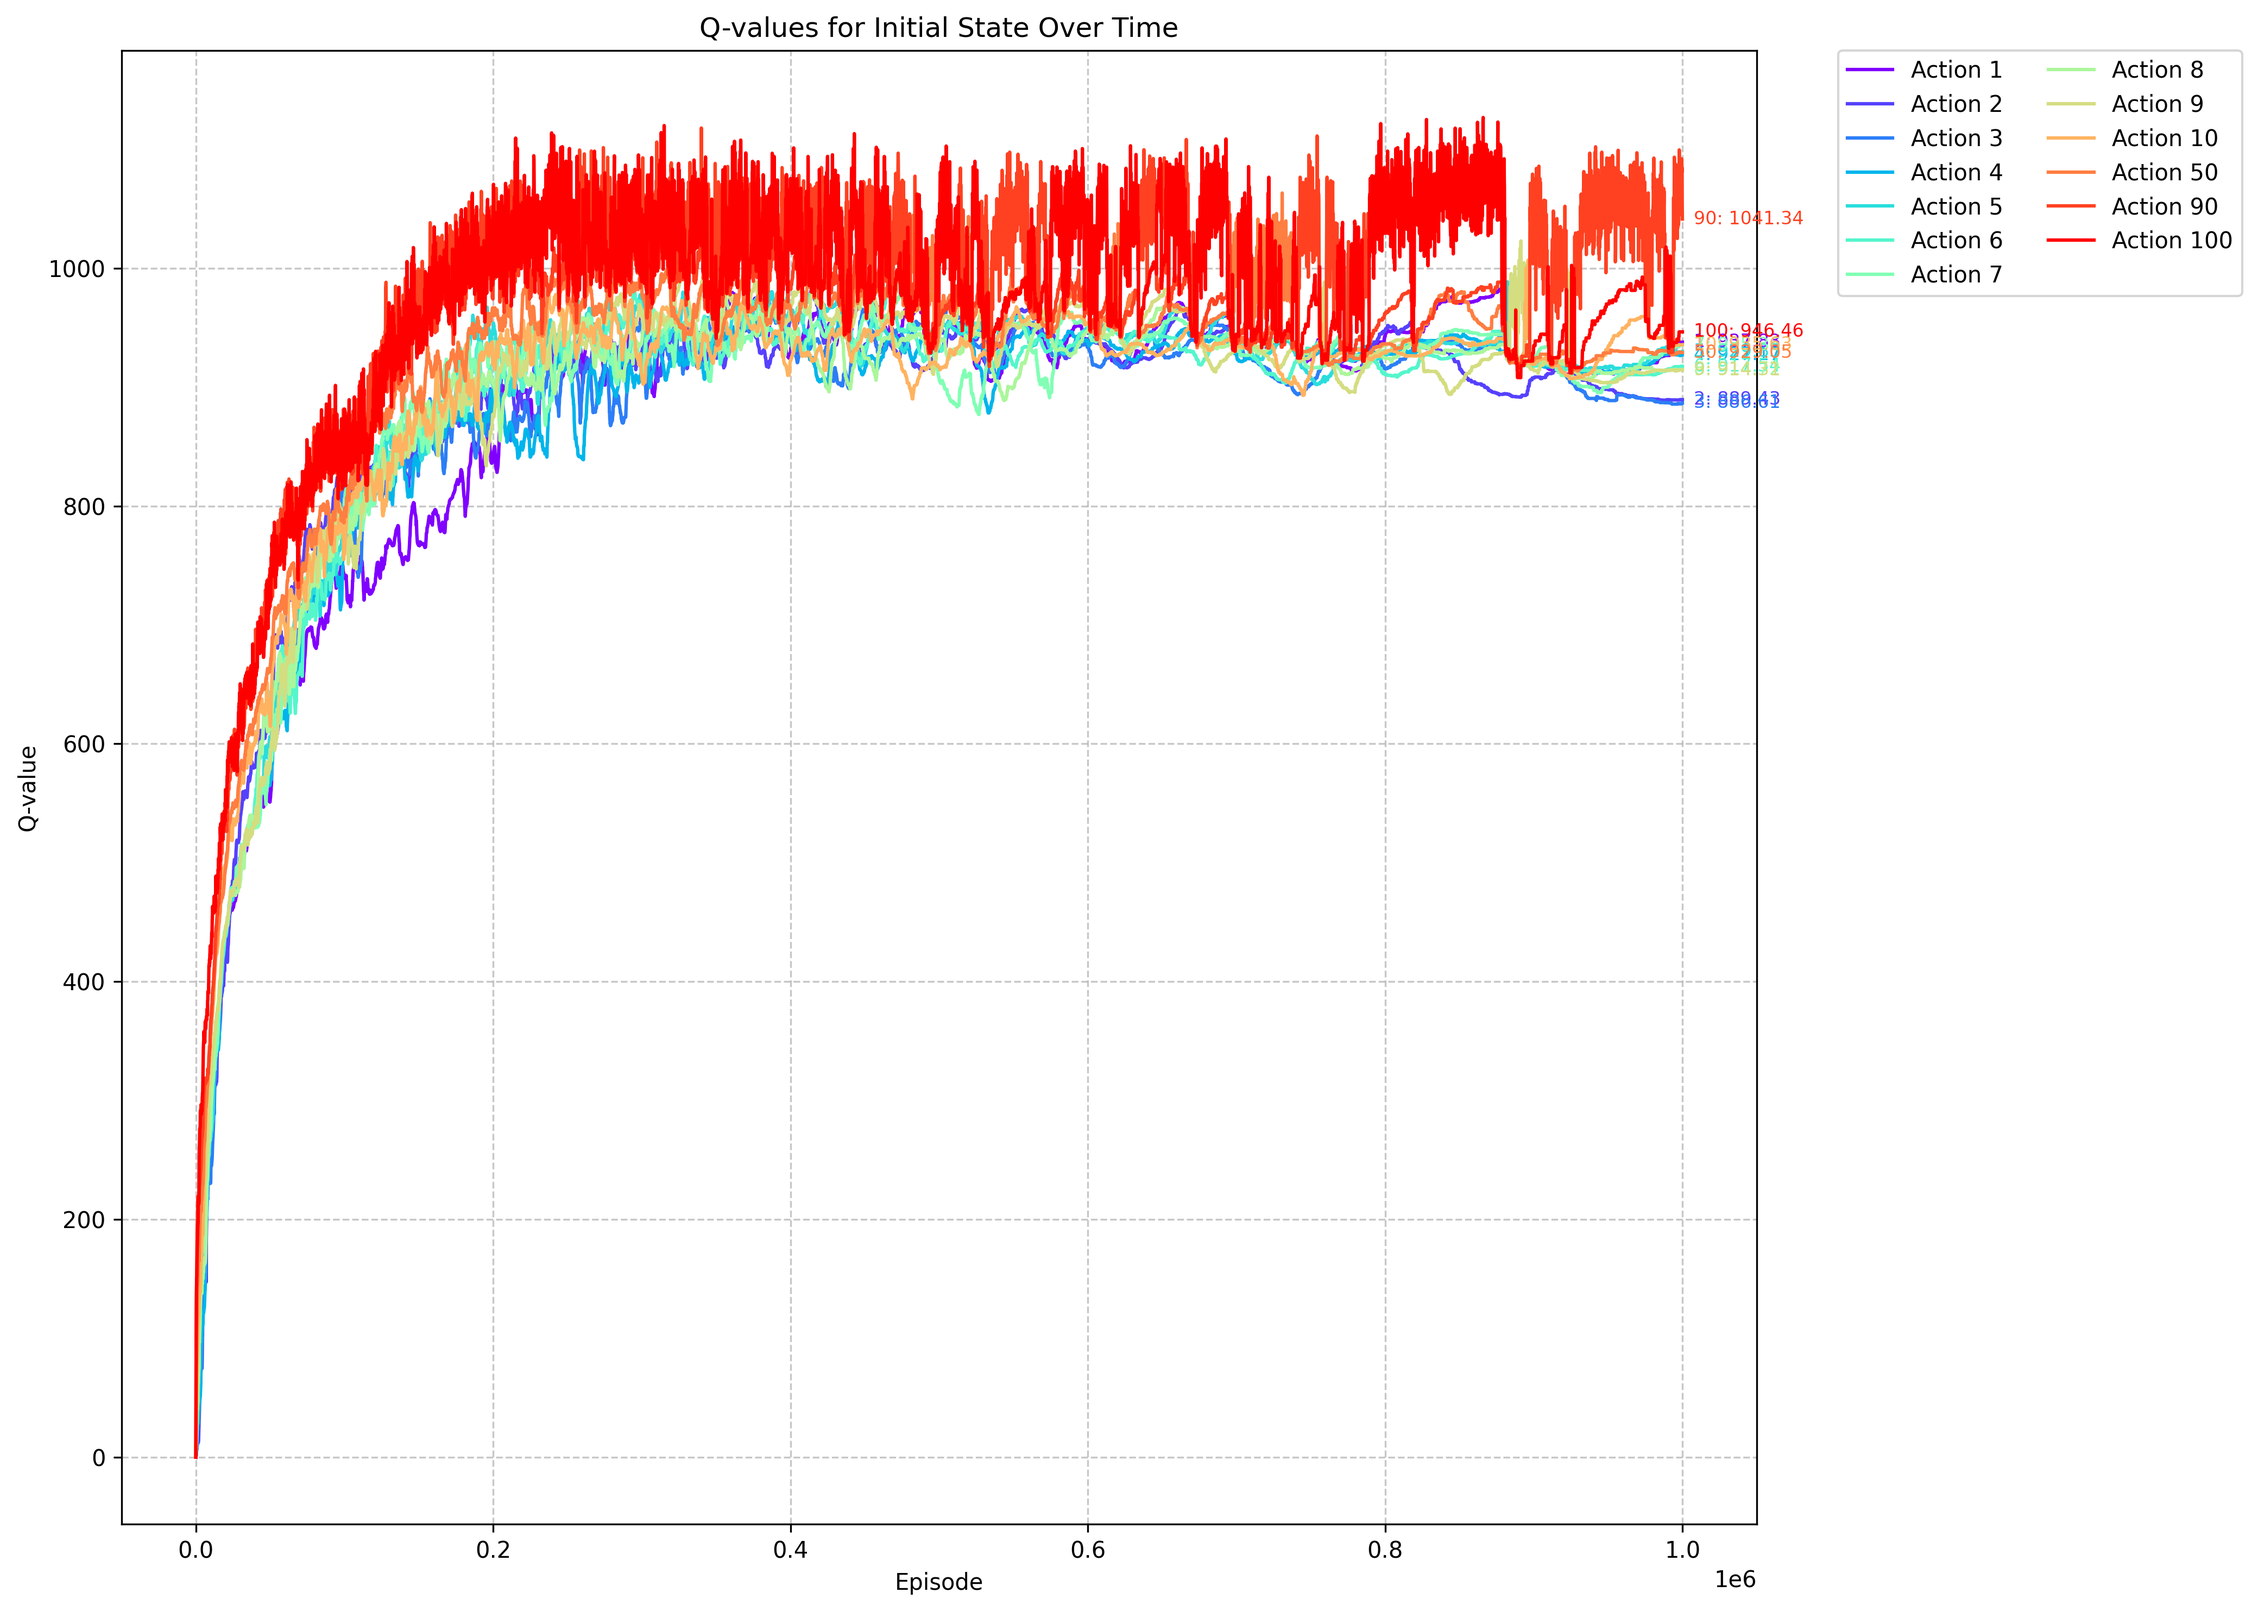
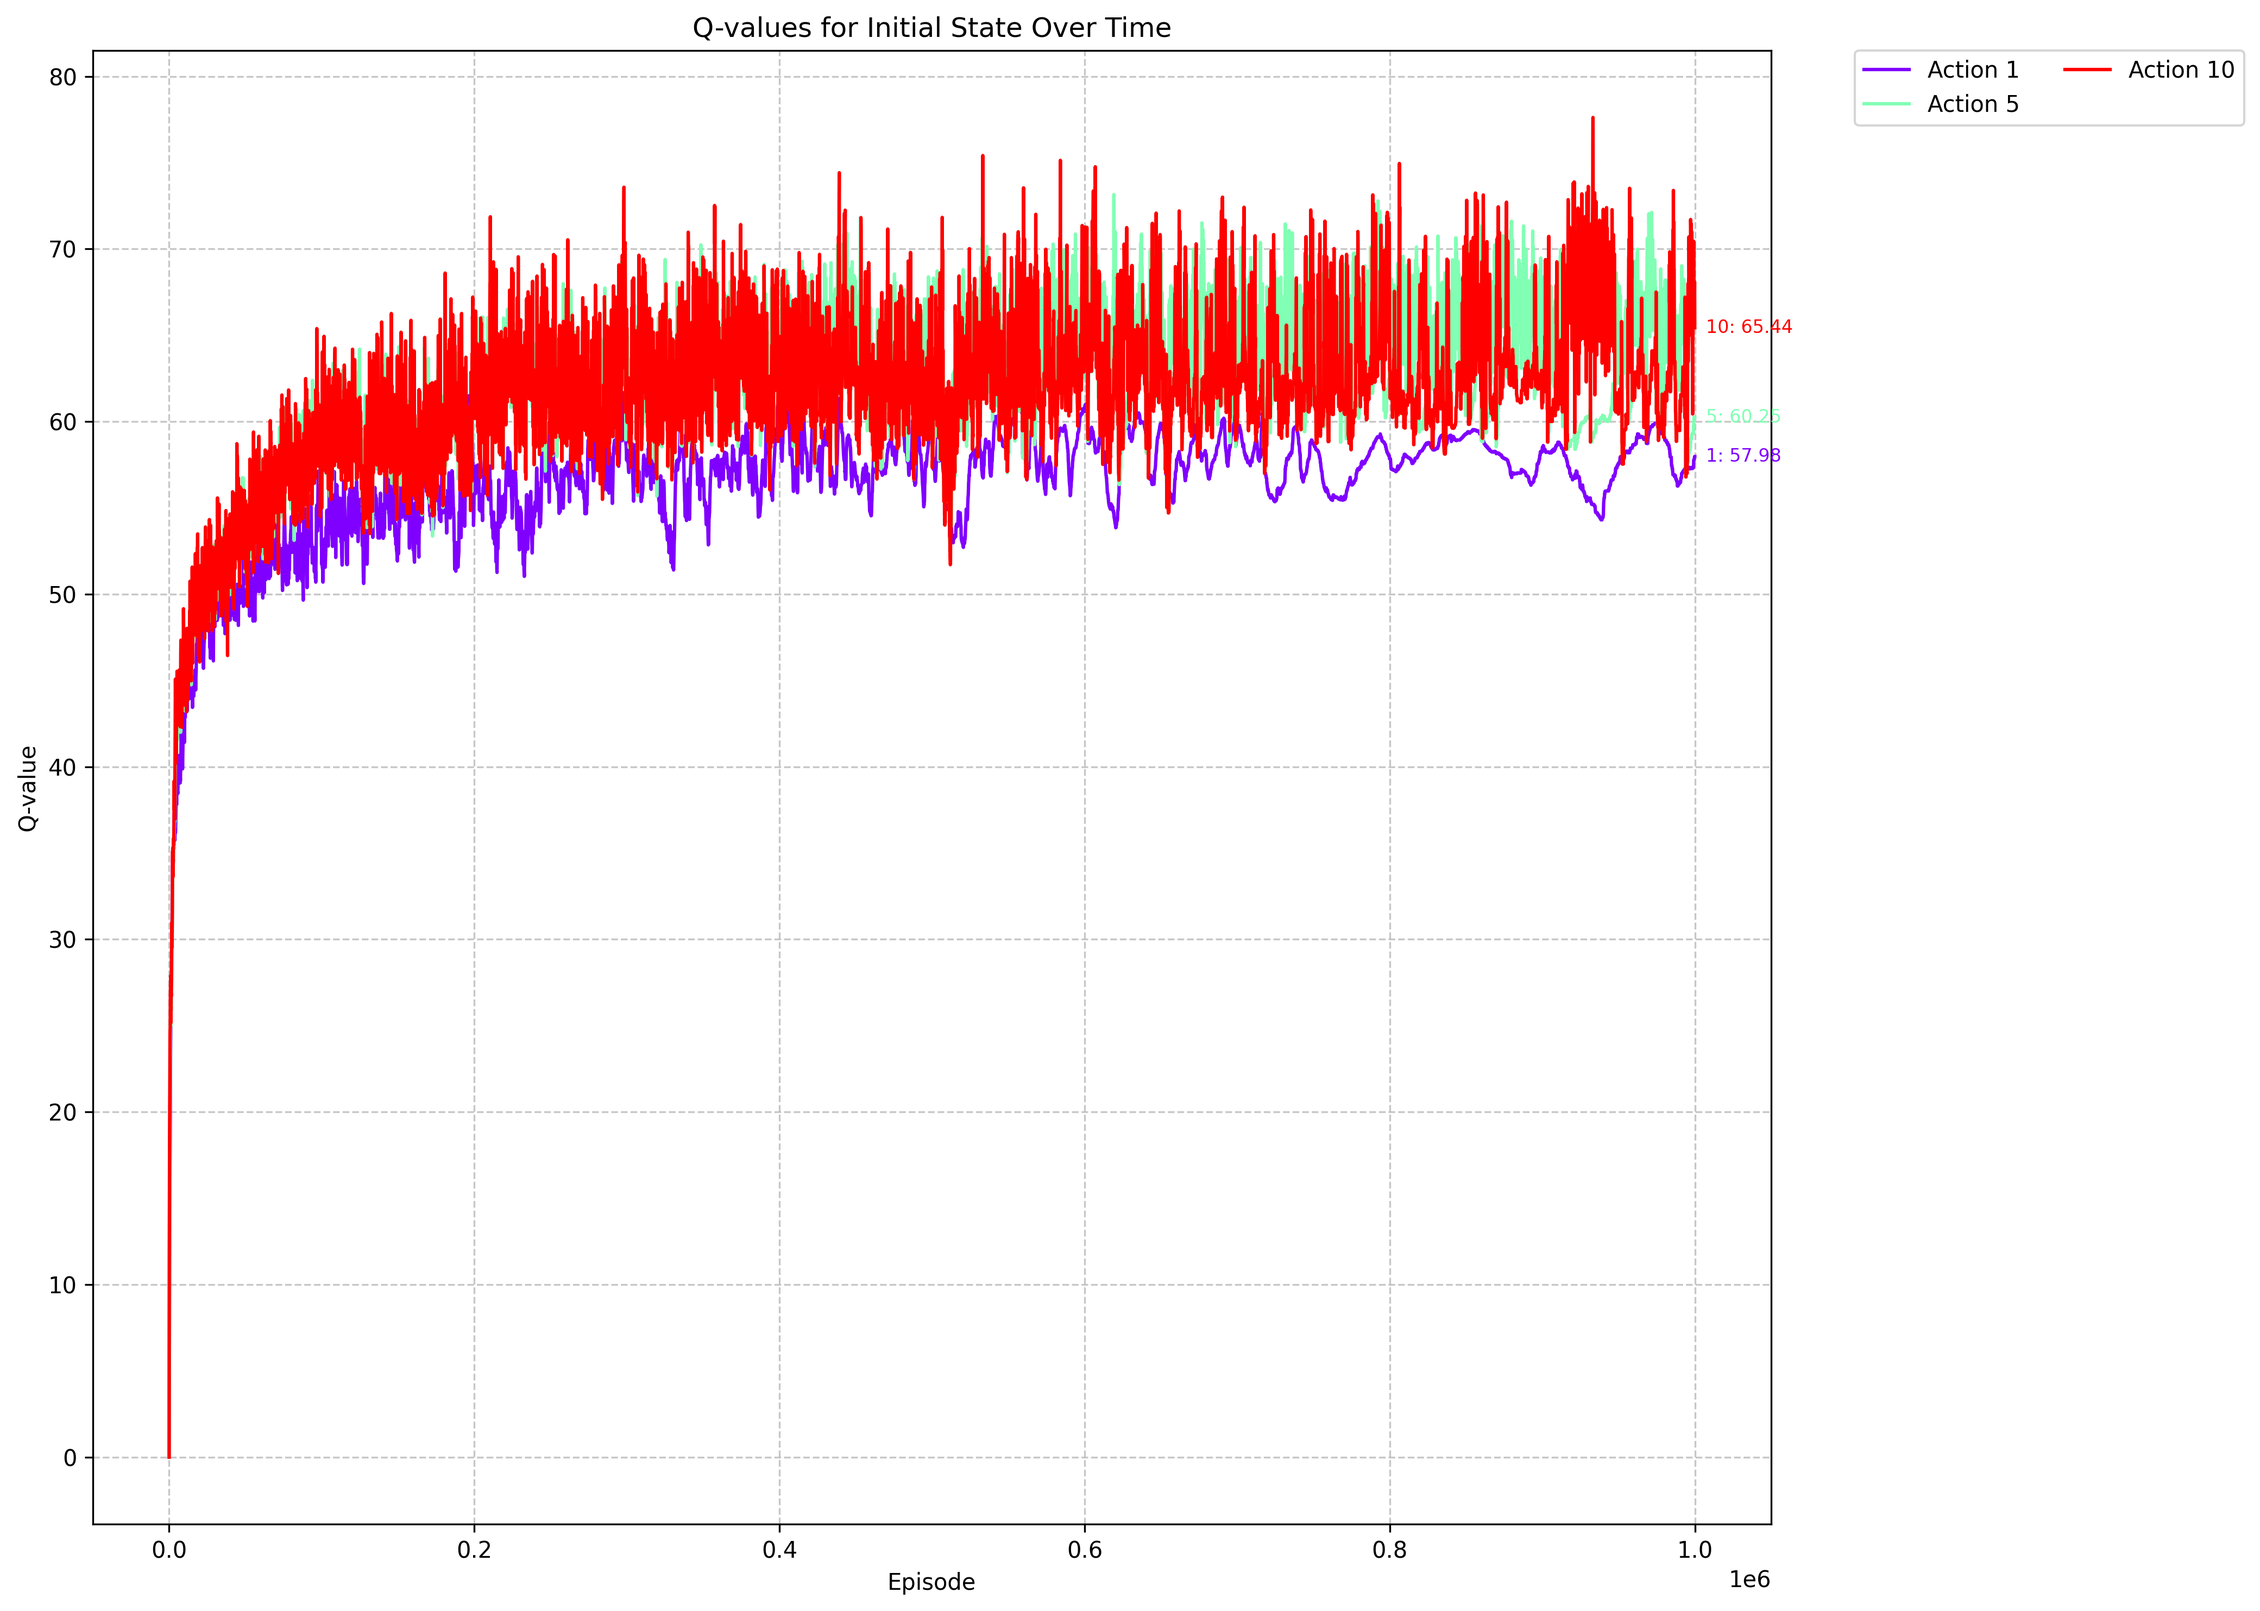
use replay buffer, simplify game

diff --git a/src/double_q_learning/double_q_learning.py b/src/double_q_learning/double_q_learning.py
@@ -1,3 +1,4 @@
+from collections import deque
 import random
 import numpy as np
 from tqdm import tqdm
@@ -10,7 +11,7 @@ def choose_action(Q1, Q2, state, epsilon):
     else:
         Q_combined = Q1[state, :] + Q2[state, :]
         return np.argmax(Q_combined)
-    
+
 def update_Q(Q1, Q2, state, action, reward, next_state, alpha, gamma, update_Q1=True):
     if update_Q1:
         best_action = np.argmax(Q1[next_state, :])
@@ -20,43 +21,65 @@ def update_Q(Q1, Q2, state, action, reward, next_state, alpha, gamma, update_Q1=
         Q2[state, action] += alpha * (reward + gamma * Q1[next_state, best_action] - Q2[state, action])
 
 def train_double_q_learning():
-    Q1 = np.zeros((max_points + 1, n_actions))
-    Q2 = np.zeros((max_points + 1, n_actions))
-    q_value_history = []
-    epsilon = initial_epsilon
+    Q1 = np.zeros((max_points + 1, n_actions))  # Initialize Q1 table
+    Q2 = np.zeros((max_points + 1, n_actions))  # Initialize Q2 table
+    q_value_history = []  # To store the history of Q-values
+    epsilon = initial_epsilon  # Initial epsilon for epsilon-greedy policy
+
+    # Experience replay buffer
+    replay_buffer = deque(maxlen=10000)
+    batch_size = 64
+
+    # Moving average parameters for reward smoothing
+    reward_window = 100
+    reward_smoothing = deque(maxlen=reward_window)
 
     print("Starting training...")
     for episode in tqdm(range(episodes), desc="Training Progress"):
-        state = 0
-        done = False
+        state = 0  # Initial state
+        done = False  # Episode completion flag
+        episode_rewards = []  # To store rewards for the current episode
 
         while not done:
+            # Choose action using epsilon-greedy policy
             attacker_action = choose_action(Q1, Q2, state, epsilon)
-            defender_action = get_defender_action(actions)
+            defender_action = get_defender_action(actions)  # Get defender's action
             attacker_number = actions[attacker_action]
             defender_number = actions[defender_action]
 
             if attacker_number != defender_number:
-                reward = attacker_number
-                next_state = min(state + reward, max_points)
+                reward = attacker_number  # Attacker wins, gets points
+                next_state = min(state + reward, max_points)  # Update state
             else:
-                reward = 0
-                next_state = state
-                done = True
+                reward = 0  # Defender wins, no points for attacker
+                next_state = state  # State remains the same
+                done = True  # End the episode
 
-            update_Q(Q1, Q2, state, attacker_action, reward, next_state, alpha, gamma, update_Q1=random.uniform(0, 1) < 0.5)
+            # Store experience in replay buffer
+            replay_buffer.append((state, attacker_action, reward, next_state, done))
 
-            state = next_state
+            # Sample a batch of experiences from the replay buffer
+            if len(replay_buffer) >= batch_size:
+                batch = random.sample(replay_buffer, batch_size)
+                for b_state, b_action, b_reward, b_next_state, b_done in batch:
+                    # Update Q-values using Double Q-learning update rule
+                    update_Q(Q1, Q2, b_state, b_action, b_reward, b_next_state, alpha, gamma, update_Q1=random.uniform(0, 1) < 0.5)
+
+            state = next_state  # Move to the next state
+            episode_rewards.append(reward)  # Collect reward
 
             if state == max_points:
-                done = True
+                done = True  # End the episode if max points are reached
 
+        # Smooth the rewards using a moving average
+        reward_smoothing.append(np.sum(episode_rewards))
+        smoothed_reward = np.mean(reward_smoothing)
+        q_value_history.append(smoothed_reward)
+
+        # Decay epsilon
         epsilon = max(min_epsilon, epsilon * epsilon_decay)
 
-        if episode % 100 == 0:
-            Q_combined = Q1[0, :] + Q2[0, :]
-            q_value_history.append(Q_combined.copy())
-
+        # Periodically print progress
         if (episode + 1) % 10000 == 0:
             print(f"\nEpisode {episode + 1}/{episodes}")
             print(f"Epsilon: {epsilon:.6f}")

diff --git a/src/main.py b/src/main.py
@@ -21,6 +21,10 @@ def main():
     x_axis = np.arange(0, len(q_value_history) * 100, 100)
     colors = plt.cm.rainbow(np.linspace(0, 1, len(actions)))
 
+    # Check if q_value_history is 1D or 2D
+    if q_value_history.ndim == 1:
+        q_value_history = q_value_history[:, np.newaxis]
+
     for i, action in enumerate(actions):
         plt.plot(x_axis, q_value_history[:, i], label=f'Action {action}', color=colors[i])
 

diff --git a/src/config.py b/src/config.py
@@ -1,5 +1,6 @@
 # Configuration parameters
-actions = [1, 2, 3, 4, 5, 6, 7, 8, 9, 10, 50, 90, 100]
+# actions = [1, 2, 3, 4, 5, 6, 7, 8, 9, 10, 50, 90, 100]
+actions = [1, 5, 10]
 n_actions = len(actions)
 max_points = 1000
 alpha = 0.1
